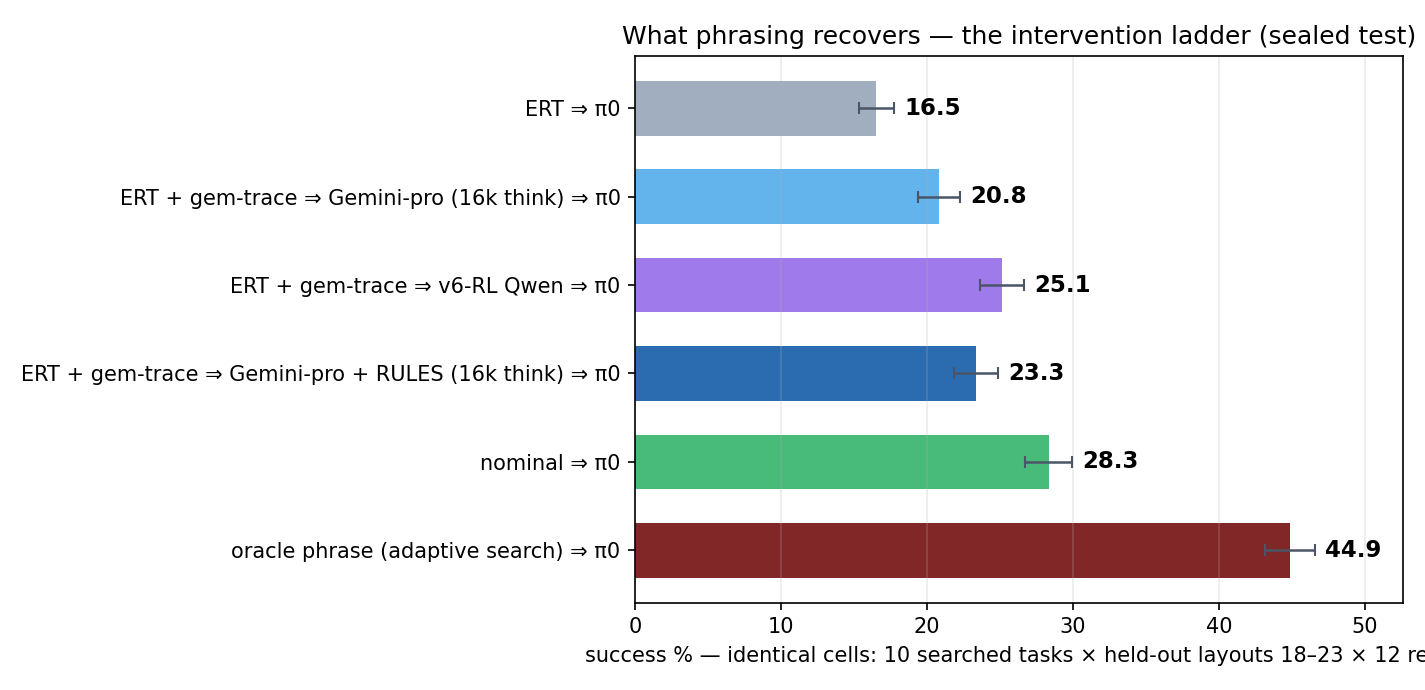
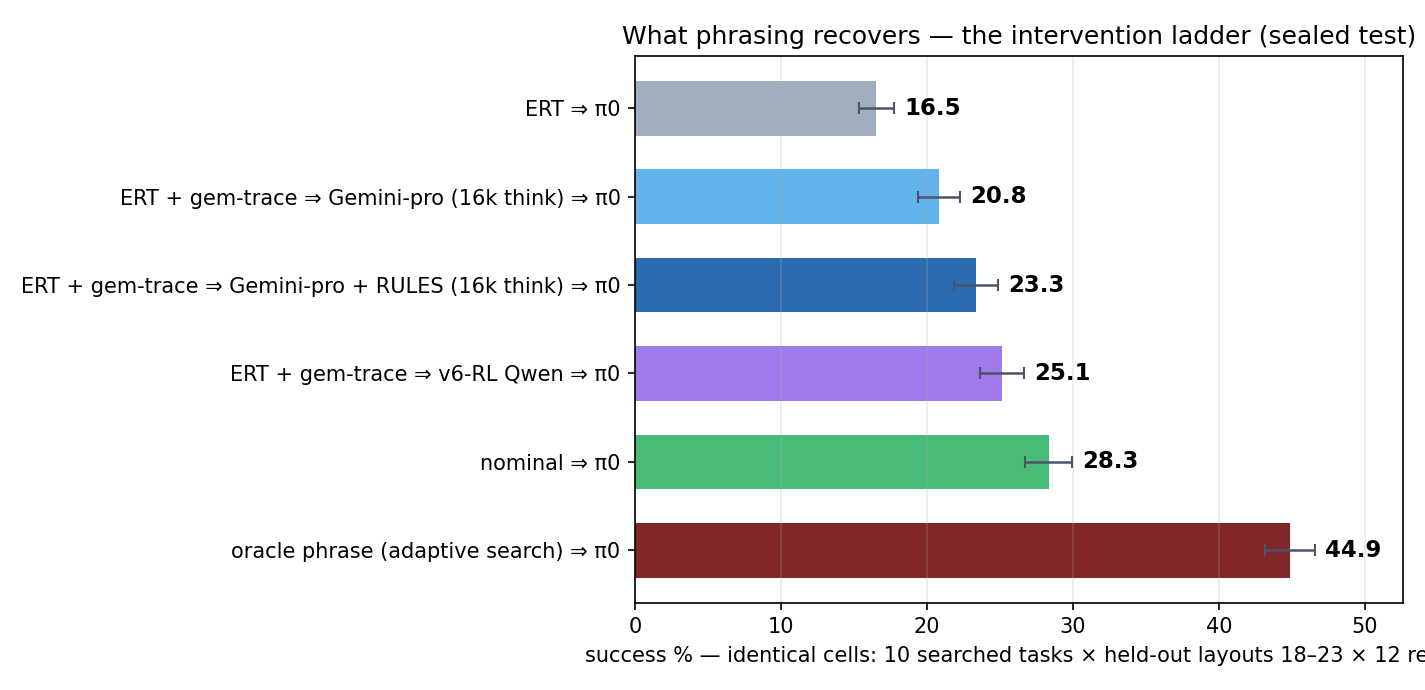
ladder: sort rungs by value (v6-RL flip vs pooled noted)

Changed region(s): [[0.0, 0.3652, 0.7719, 0.4565], [0.4323, 0.487, 0.7719, 0.5783], [0.0, 0.5174, 0.4014, 0.5783]]

diff --git a/scripts/make_phrasing_ladder.py b/scripts/make_phrasing_ladder.py
@@ -49,15 +49,19 @@ BARS = [
     ("oracle phrase (adaptive search) ⇒ π0", None, "#822727"),
 ]
 
-vals, errs = [], []
-for label, arm, _ in BARS:
+rows = []
+for label, arm, color in BARS:
     if arm:
         v, se = task_mean(arm)
     else:
         v = sum(oracle.values()) / len(oracle)
         se = 100 * math.sqrt(sum(p / 100 * (1 - p / 100) / 72 for p in oracle.values())) / len(oracle)
-    vals.append(v)
-    errs.append(se)
+    rows.append((v, se, label, color))
+rows.sort()  # ascending rungs — chart stays monotone whatever the data says
+BARS = [(label, None, color) for _, _, label, color in rows]
+vals = [r[0] for r in rows]
+errs = [r[1] for r in rows]
+for v, se, label, _ in rows:
     print(f"{v:5.1f} ±{se:3.1f}  {label}")
 
 fig, ax = plt.subplots(figsize=(9.5, 4.6))
